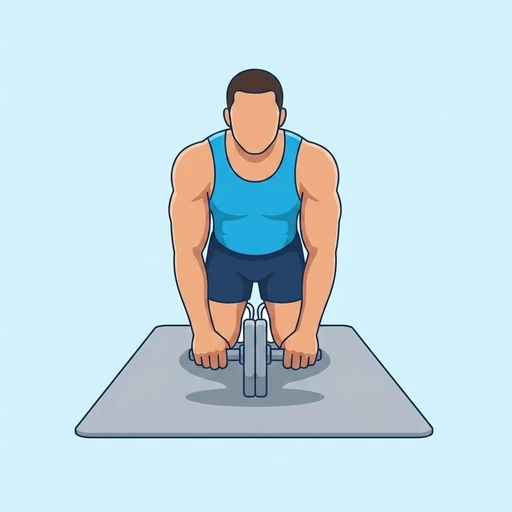
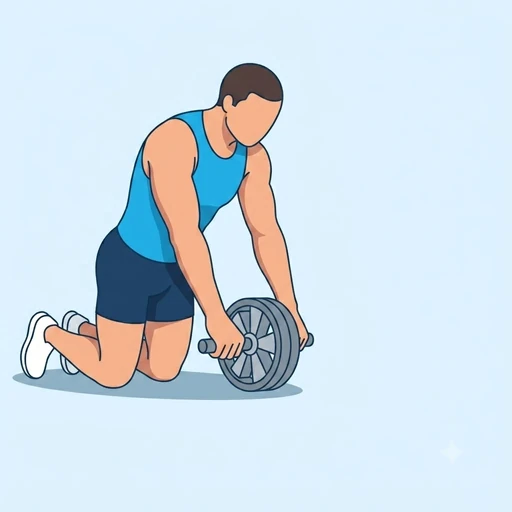
Refresh the free-tier demo and paid preview (#1)
Refresh the vendored bundle, surface the paid-tier preview, and filter non-animated sample frames.

diff --git a/test/bundle_test.dart b/test/bundle_test.dart
@@ -8,34 +8,47 @@ import 'package:repdb_example_flutter/data/bundle.dart';
 void main() {
   TestWidgetsFlutterBinding.ensureInitialized();
 
-  test('bundle loads 400 exercises, taxonomy, met and localized labels', () async {
-    final b = await Bundle.load();
-    expect(b.exercises.length, 400);
-    expect(b.muscles, isNotEmpty);
-    expect(b.equipment, isNotEmpty);
+  test(
+    'bundle loads 400 exercises, taxonomy, met and localized labels',
+    () async {
+      final b = await Bundle.load();
+      expect(b.exercises.length, 400);
+      expect(b.muscles, isNotEmpty);
+      expect(b.equipment, isNotEmpty);
 
-    final ex = b.findById('arnold-press');
-    expect(ex, isNotNull);
-    expect(ex!.met, 6.0);
+      final ex = b.findById('arnold-press');
+      expect(ex, isNotNull);
+      expect(ex!.met, 6.0);
 
-    // Free tier ships flat stills only — no classic style.
-    expect(ex.imagePath('peak'), 'assets/images/flat/arnold-press-peak.webp');
-    expect(ex.imagePath('start'), 'assets/images/flat/arnold-press-start.webp');
+      // Free tier ships flat stills only — no classic style.
+      expect(ex.imagePath('peak'), 'assets/images/flat/arnold-press-peak.webp');
+      expect(
+        ex.imagePath('start'),
+        'assets/images/flat/arnold-press-start.webp',
+      );
 
-    // Localized muscle label (German) differs from the raw key.
-    expect(b.muscleLabel('anterior_deltoid', 'de'), isNotEmpty);
-    expect(b.muscleLabel('anterior_deltoid', 'de'),
-        isNot(equals('Anterior Deltoid')));
-    expect(b.muscleIcon('anterior_deltoid'), contains('anterior-deltoid.webp'));
-    expect(b.equipmentIcon('ez_bar'), contains('ez-bar.webp'));
-  });
+      // Localized muscle label (German) differs from the raw key.
+      expect(b.muscleLabel('anterior_deltoid', 'de'), isNotEmpty);
+      expect(
+        b.muscleLabel('anterior_deltoid', 'de'),
+        isNot(equals('Anterior Deltoid')),
+      );
+      expect(
+        b.muscleIcon('anterior_deltoid'),
+        contains('anterior-deltoid.webp'),
+      );
+      expect(b.equipmentIcon('ez_bar'), contains('ez-bar.webp'));
+    },
+  );
 
   test('single-pose exercises expose a lone "main" frame', () async {
     final b = await Bundle.load();
     final single = b.exercises.firstWhere((e) => e.isSinglePose);
     expect(single.flatVariants, ['main']);
-    expect(single.imagePath('main'),
-        'assets/images/flat/${single.imageBaseId}-main.webp');
+    expect(
+      single.imagePath('main'),
+      'assets/images/flat/${single.imageBaseId}-main.webp',
+    );
     // The catalog card / hero falls back to the lone pose.
     expect(single.heroImagePath, single.imagePath('main'));
     // start/peak simply aren't shipped — no empty-box crash path.
@@ -52,18 +65,25 @@ void main() {
     expect(alias.imagePath('peak'), 'assets/images/flat/deadlift-peak.webp');
   });
 
-  test('Standard-tier animation samples are derived from bundled assets', () async {
-    final b = await Bundle.load();
-    expect(
-      b.sampleAnimationSlugs,
-      containsAll(<String>{'bent-over-db-row'}),
-    );
-    // Each derived slug resolves to a bundled animation asset path.
-    for (final slug in b.sampleAnimationSlugs) {
+  test(
+    'Standard-tier animation samples are derived from bundled assets',
+    () async {
+      final b = await Bundle.load();
+      expect(b.sampleAnimationSlugs, containsAll(<String>{'bent-over-db-row'}));
       expect(
-        b.findById(slug)?.sampleAnimationPath ?? 'assets/images/samples/$slug.webp',
-        'assets/images/samples/$slug.webp',
+        b.sampleAnimationSlugs.every(
+          (slug) => !RegExp(r'-(start|peak|main)$').hasMatch(slug),
+        ),
+        isTrue,
       );
-    }
-  });
+      // Each derived slug resolves to a bundled animation asset path.
+      for (final slug in b.sampleAnimationSlugs) {
+        expect(
+          b.findById(slug)?.sampleAnimationPath ??
+              'assets/images/samples/$slug.webp',
+          'assets/images/samples/$slug.webp',
+        );
+      }
+    },
+  );
 }

diff --git a/lib/screens/catalog_screen.dart b/lib/screens/catalog_screen.dart
@@ -21,10 +21,9 @@ class _CatalogScreenState extends State<CatalogScreen> {
   @override
   Widget build(BuildContext context) {
     final theme = Theme.of(context);
-    final filtered = widget.bundle.exercises
-        .where((e) => e.matchesQuery(_query))
-        .toList()
-      ..sort((a, b) => a.name(_locale).compareTo(b.name(_locale)));
+    final filtered =
+        widget.bundle.exercises.where((e) => e.matchesQuery(_query)).toList()
+          ..sort((a, b) => a.name(_locale).compareTo(b.name(_locale)));
 
     return Scaffold(
       appBar: AppBar(
@@ -65,7 +64,10 @@ class _CatalogScreenState extends State<CatalogScreen> {
             padding: const EdgeInsets.symmetric(horizontal: 12),
             child: SegmentedButton<String>(
               segments: _locales
-                  .map((l) => ButtonSegment(value: l, label: Text(l.toUpperCase())))
+                  .map(
+                    (l) =>
+                        ButtonSegment(value: l, label: Text(l.toUpperCase())),
+                  )
                   .toList(),
               selected: {_locale},
               onSelectionChanged: (s) => setState(() => _locale = s.first),
@@ -80,6 +82,7 @@ class _CatalogScreenState extends State<CatalogScreen> {
       ),
       body: Column(
         children: [
+          _SamplePreviewGallery(bundle: widget.bundle, locale: _locale),
           Padding(
             padding: const EdgeInsets.fromLTRB(16, 12, 16, 8),
             child: SearchBar(
@@ -115,7 +118,9 @@ class _CatalogScreenState extends State<CatalogScreen> {
                 ? Center(
                     child: Text(
                       'No exercises match "$_query"',
-                      style: TextStyle(color: theme.colorScheme.onSurfaceVariant),
+                      style: TextStyle(
+                        color: theme.colorScheme.onSurfaceVariant,
+                      ),
                     ),
                   )
                 : LayoutBuilder(
@@ -123,8 +128,8 @@ class _CatalogScreenState extends State<CatalogScreen> {
                       final cols = constraints.maxWidth >= 1100
                           ? 4
                           : constraints.maxWidth >= 800
-                              ? 3
-                              : 2;
+                          ? 3
+                          : 2;
                       return GridView.builder(
                         padding: const EdgeInsets.fromLTRB(16, 8, 16, 24),
                         gridDelegate: SliverGridDelegateWithFixedCrossAxisCount(
@@ -155,7 +160,6 @@ class _CatalogScreenState extends State<CatalogScreen> {
                     },
                   ),
           ),
-          _SamplePreviewGallery(bundle: widget.bundle, locale: _locale),
           const _Footer(),
         ],
       ),
@@ -221,7 +225,7 @@ class _SamplePreviewGallery extends StatelessWidget {
           ),
           const SizedBox(height: 10),
           SizedBox(
-            height: 150,
+            height: 164,
             child: ListView.separated(
               scrollDirection: Axis.horizontal,
               itemCount: slugs.length,
@@ -306,7 +310,9 @@ class _Footer extends StatelessWidget {
     return Container(
       padding: const EdgeInsets.fromLTRB(16, 12, 16, 16),
       decoration: BoxDecoration(
-        border: Border(top: BorderSide(color: theme.colorScheme.outlineVariant)),
+        border: Border(
+          top: BorderSide(color: theme.colorScheme.outlineVariant),
+        ),
       ),
       width: double.infinity,
       child: Column(

diff --git a/lib/data/bundle.dart b/lib/data/bundle.dart
@@ -12,11 +12,11 @@ class TaxonomyEntry {
   final String? image;
 
   factory TaxonomyEntry.fromJson(Map<String, dynamic> j) => TaxonomyEntry(
-        nameEn: (j['name_en'] as String?) ?? '',
-        nameDe: j['name_de'] as String?,
-        nameEs: j['name_es'] as String?,
-        image: j['image'] as String?,
-      );
+    nameEn: (j['name_en'] as String?) ?? '',
+    nameDe: j['name_de'] as String?,
+    nameEs: j['name_es'] as String?,
+    image: j['image'] as String?,
+  );
 
   String label(String locale) {
     switch (locale) {
@@ -58,8 +58,12 @@ class Bundle {
 
   static Map<String, TaxonomyEntry> _taxonomy(dynamic raw) {
     if (raw is! Map) return const {};
-    return raw.map((k, v) =>
-        MapEntry(k.toString(), TaxonomyEntry.fromJson(v as Map<String, dynamic>)));
+    return raw.map(
+      (k, v) => MapEntry(
+        k.toString(),
+        TaxonomyEntry.fromJson(v as Map<String, dynamic>),
+      ),
+    );
   }
 
   /// Scans the bundled `assets/images/samples/` directory once so the set of
@@ -71,7 +75,9 @@ class Bundle {
     final animations = <String>[];
     for (final key in manifest.listAssets()) {
       if (!key.startsWith(dir) || !key.endsWith('.webp')) continue;
-      animations.add(key.substring(dir.length, key.length - '.webp'.length));
+      final slug = key.substring(dir.length, key.length - '.webp'.length);
+      if (RegExp(r'-(start|peak|main)$').hasMatch(slug)) continue;
+      animations.add(slug);
     }
     animations.sort();
     return animations;

diff --git a/README.md b/README.md
@@ -35,7 +35,7 @@ flutter build apk --debug
 
 ```
 assets/exercises.json         # the free-tier bundle (400 exercises)
-assets/images/flat/*.webp     # 745 flat webp (start/peak pairs + single-pose "main")
+assets/images/flat/*.webp     # 741 flat webp (start/peak pairs + single-pose "main")
 assets/images/muscles/*.webp  # 27 muscle icons
 assets/images/equipment/*.webp# 46 equipment icons
 assets/images/samples/*.webp  # 1 paid-tier looping animation (Standard-tier preview)

diff --git a/assets/images/samples/README.md b/assets/images/samples/README.md
@@ -1,0 +1,7 @@
+# premium-samples/
+
+A Standard-tier exercise — bent-over-db-row — at full paid-tier quality:
+classic start/peak stills plus the looping transparent-background animation,
+the same clip shown on https://repdb.co. The Standard tier adds animations
+like this for most exercises. Current tiers and pricing:
+https://repdb.co/pricing
